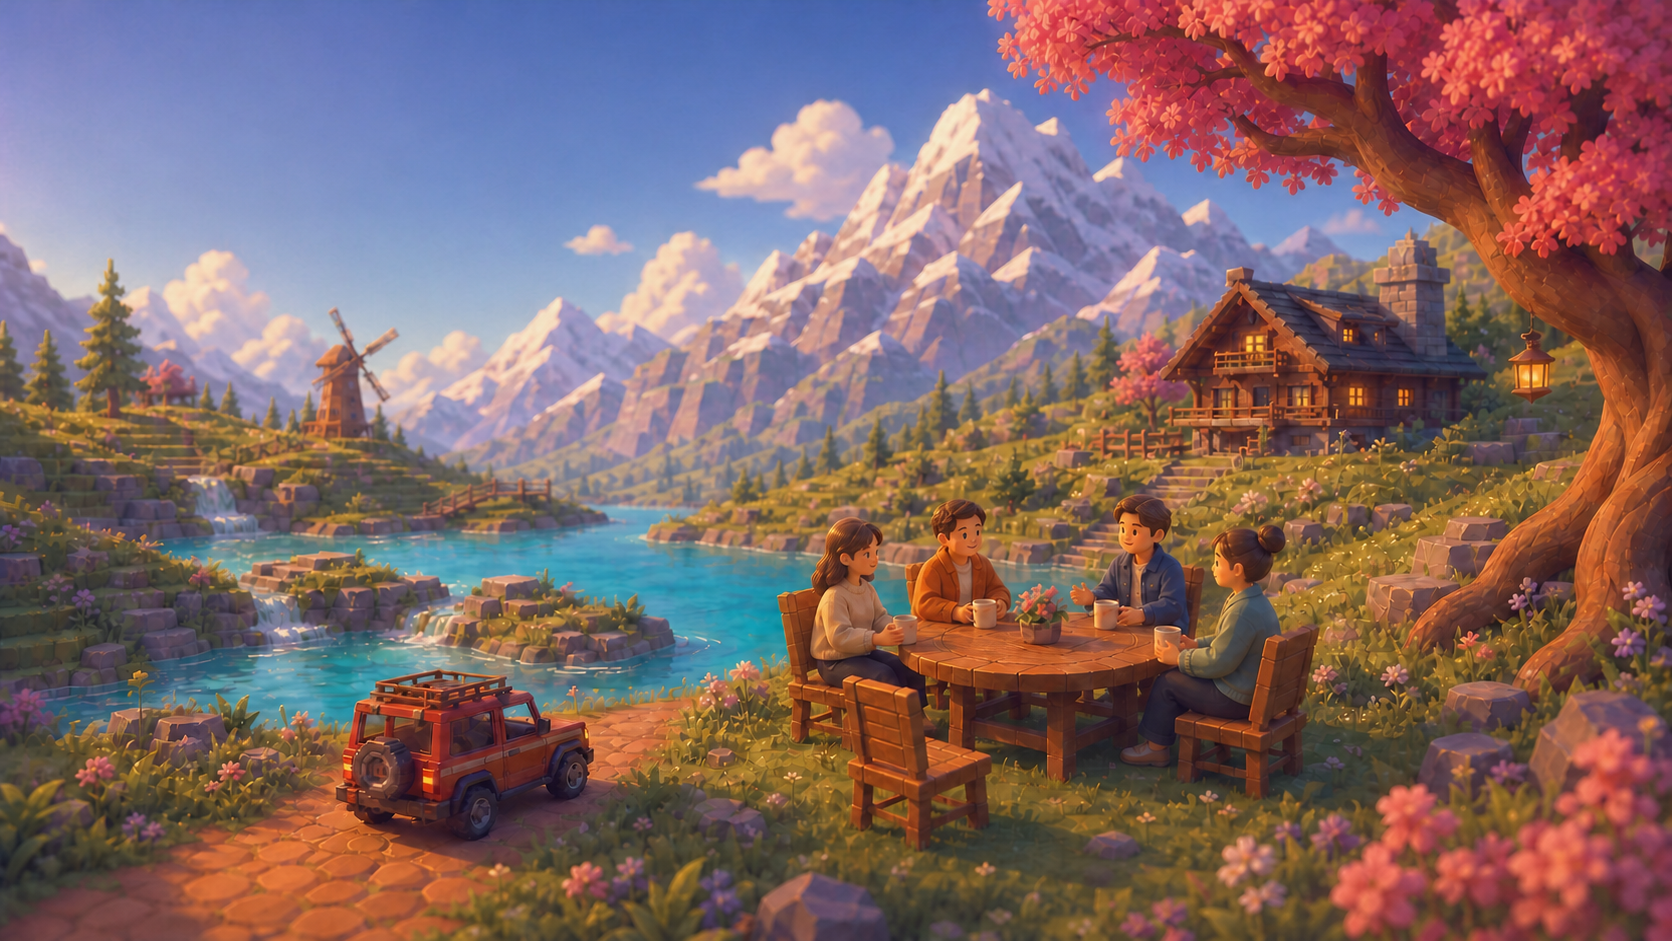
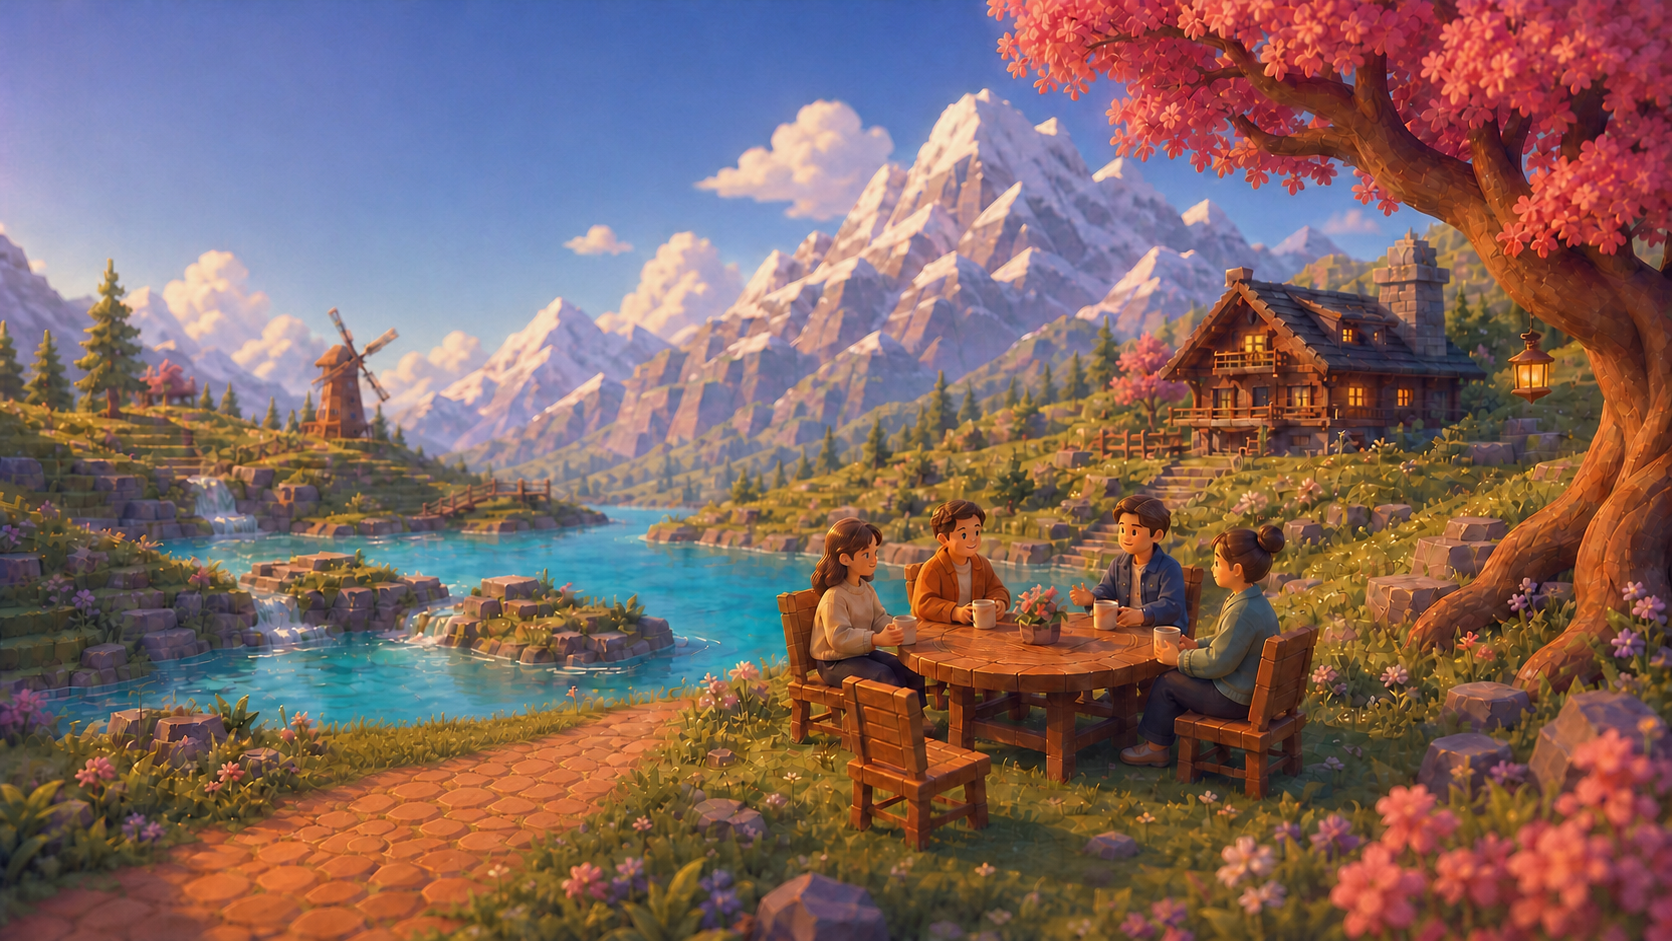
fix: restore valley scene as table world visual

diff --git a/src/ValleyScene.tsx b/src/ValleyScene.tsx
@@ -1,6 +1,6 @@
 import { Sparkles } from '@react-three/drei'
 import { Canvas, useFrame, useThree } from '@react-three/fiber'
-import { Suspense, useMemo, useRef } from 'react'
+import { Suspense, useEffect, useMemo, useRef } from 'react'
 import * as THREE from 'three'
 import DioramaScene, { type DioramaProps } from './Diorama'
 
@@ -14,23 +14,73 @@ const CAMERA_TARGETS: Record<ExperiencePhase, { pos: [number, number, number]; l
 }
 
 function CameraRig({ phase, reducedMotion }: Pick<ValleySceneProps, 'phase' | 'reducedMotion'>) {
-  const { camera } = useThree()
+  const { camera, gl } = useThree()
   const lookAt = useRef(new THREE.Vector3())
   const target = useMemo(() => new THREE.Vector3(), [])
+  const basePosition = useMemo(() => new THREE.Vector3(), [])
+  const offset = useMemo(() => new THREE.Vector3(), [])
   const position = useMemo(() => new THREE.Vector3(), [])
+  const orbit = useRef({ active: false, pointerId: -1, lastX: 0, lastY: 0, yaw: 0, pitch: 0, root: null as HTMLElement | null })
+
+  useEffect(() => {
+    const state = orbit.current
+    const onPointerDown = (event: PointerEvent) => {
+      if (event.button !== 0 || !(event.target instanceof Element)) return
+      const root = event.target.closest<HTMLElement>('.valley-experience')
+      if (!root || root.getAttribute('aria-hidden') === 'true' || event.target.closest('button,a,input,textarea,select')) return
+      state.active = true
+      state.pointerId = event.pointerId
+      state.lastX = event.clientX
+      state.lastY = event.clientY
+      state.root = root
+      root.classList.add('is-camera-dragging')
+    }
+    const onPointerMove = (event: PointerEvent) => {
+      if (!state.active || event.pointerId !== state.pointerId) return
+      state.yaw -= (event.clientX - state.lastX) * 0.006
+      state.pitch = THREE.MathUtils.clamp(state.pitch + (event.clientY - state.lastY) * 0.004, -0.55, 0.55)
+      state.lastX = event.clientX
+      state.lastY = event.clientY
+      event.preventDefault()
+    }
+    const endDrag = (event: PointerEvent) => {
+      if (!state.active || (event.pointerId !== undefined && event.pointerId !== state.pointerId)) return
+      state.active = false
+      state.pointerId = -1
+      state.root?.classList.remove('is-camera-dragging')
+      state.root = null
+    }
+
+    window.addEventListener('pointerdown', onPointerDown)
+    window.addEventListener('pointermove', onPointerMove, { passive: false })
+    window.addEventListener('pointerup', endDrag)
+    window.addEventListener('pointercancel', endDrag)
+    return () => {
+      window.removeEventListener('pointerdown', onPointerDown)
+      window.removeEventListener('pointermove', onPointerMove)
+      window.removeEventListener('pointerup', endDrag)
+      window.removeEventListener('pointercancel', endDrag)
+      state.root?.classList.remove('is-camera-dragging')
+    }
+  }, [gl])
 
   useFrame(({ clock, pointer }, delta) => {
     const stage = CAMERA_TARGETS[phase]
     const drift = reducedMotion ? 0 : Math.sin(clock.elapsedTime * 0.18) * 0.05
-    position.set(...stage.pos)
+    basePosition.set(...stage.pos)
     target.set(...stage.look)
     if (!reducedMotion) {
       const parallax = phase === 'discovering' ? 1 : 0.55
-      position.x += pointer.x * 0.4 * parallax + drift
-      position.y += pointer.y * 0.2 * parallax
+      basePosition.x += pointer.x * 0.4 * parallax + drift
+      basePosition.y += pointer.y * 0.2 * parallax
       target.x += pointer.x * 0.16 * parallax
       target.y += pointer.y * 0.1 * parallax
     }
+    offset.copy(basePosition).sub(target)
+    const spherical = new THREE.Spherical().setFromVector3(offset)
+    spherical.theta += orbit.current.yaw
+    spherical.phi = THREE.MathUtils.clamp(spherical.phi + orbit.current.pitch, 0.45, 1.52)
+    position.setFromSpherical(spherical).add(target)
     const speed = reducedMotion ? 18 : phase === 'approaching' ? 1.15 : phase === 'seated' ? 2.6 : 3.1
     camera.position.x = THREE.MathUtils.damp(camera.position.x, position.x, speed, delta)
     camera.position.y = THREE.MathUtils.damp(camera.position.y, position.y, speed, delta)

diff --git a/src/App.tsx b/src/App.tsx
@@ -1,6 +1,6 @@
 import { GlobalCanvas } from '@14islands/r3f-scroll-rig'
 import { useEffect, useRef, useState, type CSSProperties } from 'react'
-import type { ExperiencePhase } from './ValleyScene'
+import ValleyScene, { type ExperiencePhase, type ValleySceneProps } from './ValleyScene'
 import { humanActors, tableHost, type ActorId } from './actors'
 import TableSea, { type GalleryMediaRect } from './TableSea'
 import Lobby from './Lobby'
@@ -14,7 +14,6 @@ import { loadLobby, loadLobbyFit, ensureTable, viewerSeed } from './live/backend
 import { fetchDiscovery } from './live/api'
 import { setAmbient, stopAmbient } from './audio/ambient'
 import { actorAnchors } from './Diorama'
-import TableWorld from './TableWorld'
 
 const turns = [...humanActors, tableHost]
 
@@ -62,7 +61,7 @@ function SoundIcon({ muted }: { muted: boolean }) {
   return <svg viewBox="0 0 24 24" aria-hidden="true"><path d="M5 9v6h4l5 4V5L9 9H5Zm12 1c1 1.2 1 2.8 0 4m2-7c2.8 2.8 2.8 7.2 0 10" className={muted ? 'muted-wave' : ''} />{muted && <path d="m17 10 4 4m0-4-4 4" />}</svg>
 }
 
-function ValleyExperience({ onExit, appPhase, entryIntent, table }: { onExit(): void; appPhase: AppPhase; entryIntent: 'listen' | 'join' | null; table: TableSummary }) {
+function ValleyExperience({ onExit, appPhase, entryIntent, table, enhanced }: { onExit(): void; appPhase: AppPhase; entryIntent: 'listen' | 'join' | null; table: TableSummary; enhanced: boolean }) {
   const reducedMotion = useReducedMotion()
   const [phase, setPhase] = useState<ExperiencePhase>('discovering')
   const [activeSpeaker, setActiveSpeaker] = useState(0)
@@ -238,9 +237,12 @@ function ValleyExperience({ onExit, appPhase, entryIntent, table }: { onExit(): 
   const speakingTurn = liveActive && liveSpeaking ? turns.find((turn) => turn.id === liveSpeaking) ?? null : null
   const currentTurn = speakingTurn ?? turns[activeSpeaker]
   const lastLive = liveActive ? liveMessages[liveMessages.length - 1] ?? null : null
+  const sceneProps: ValleySceneProps = { phase, activeActorId: currentTurn.id, hoveredActorId, reducedMotion }
   return (
     <main ref={experienceRef} tabIndex={-1} inert={appPhase !== 'world'} aria-hidden={appPhase !== 'world'} className={`valley-experience app-${appPhase} phase-${phase} ${joinOpen ? 'has-join-open' : ''} ${listening ? 'is-listening' : ''}`}>
-      <TableWorld active={appPhase === 'world'} />
+      <div className="art-fallback" aria-hidden="true" style={enhanced ? { display: 'none' } : undefined} />
+      {enhanced && <ValleyScene {...sceneProps} />}
+      {!enhanced && seated && <img className="dom-host-fallback" src="/assets/actors/table-host-silence.png" alt="" aria-hidden="true" />}
       <div className="world-grade" aria-hidden="true" />
 
       <header className="site-header">
@@ -461,9 +463,9 @@ export default function App() {
   const showWorld = appPhase === 'expanding' || appPhase === 'world' || appPhase === 'collapsing'
   return (
     <>
-      {enhanced && <GlobalCanvas dpr={[1, 1.5]} gl={{ alpha: false, antialias: true }} shadows onError={() => setEnhanced(false)} />}
+      {enhanced && showGallery && !showWorld && <GlobalCanvas dpr={[1, 1.5]} gl={{ alpha: false, antialias: true }} shadows onError={() => setEnhanced(false)} />}
       {showGallery && <TableSea phase={appPhase} returnFocusId={transition?.table.id ?? null} onEnter={openLobby} enhanced={enhanced} discovery={discovery} />}
-      {showWorld && lobbyTable && <ValleyExperience table={lobbyTable} appPhase={appPhase} entryIntent={entryIntent} onExit={exitTable} />}
+      {showWorld && lobbyTable && <ValleyExperience table={lobbyTable} appPhase={appPhase} entryIntent={entryIntent} enhanced={enhanced} onExit={exitTable} />}
       {appPhase === 'lobby' && lobbyTable && <Lobby table={lobbyTable} lobby={lobbyData} fit={lobbyFit} loading={lobbyLoading} onClose={closeLobby} onListen={() => startWorld('listen')} onJoin={() => startWorld('join')} />}
       {appPhase === 'expanding' && transition && <><div className="transition-backdrop" aria-hidden="true" /><TransitionCover snapshot={transition} /></>}
     </>

diff --git a/src/styles.css b/src/styles.css
@@ -8,6 +8,8 @@ button,textarea { color: inherit; font: inherit; }
 button:focus-visible,textarea:focus-visible { outline: 1px solid #ffe19b; outline-offset: 5px; }
 
 .valley-experience { --paper:#fff9e9; --gold:#ffd180; position:relative; width:100%; height:100svh; overflow:hidden; isolation:isolate; background:#789caf; }
+.valley-experience.app-expanding,.valley-experience.app-world { cursor:grab; touch-action:none; }
+.valley-experience.is-camera-dragging { cursor:grabbing; }
 .art-fallback,.valley-canvas,.world-grade { position:absolute!important; inset:0; width:100%!important; height:100%!important; }
 .art-fallback { z-index:0; pointer-events:none; background:url('/assets/valley-world-clean.png') center/cover no-repeat; }
 .valley-canvas { z-index:1; pointer-events:none; }
@@ -58,7 +60,7 @@ button:focus-visible,textarea:focus-visible { outline: 1px solid #ffe19b; outlin
 .phase-approaching .approach-cue { opacity:1; transform:translate(-50%,0); }
 
 .seated-hud { position:absolute; z-index:12; inset:0; opacity:0; transition:opacity .8s ease .12s; pointer-events:none; }
-.phase-seated .seated-hud { opacity:1; }
+.phase-seated .seated-hud { opacity:1; pointer-events:auto; }
 .seated-hud[aria-hidden='true'],.seated-hud[aria-hidden='true'] * { pointer-events:none!important; }
 .back-to-discovery,.conversation-dock,.join-table-button,.seat-marker,.close-table-button { pointer-events:auto; }
 .back-to-discovery { position:absolute; top:clamp(92px,12.5vh,130px); left:clamp(24px,4vw,68px); padding:9px 0; border:0; background:none; color:rgba(255,250,236,.72); font-size:10px; letter-spacing:.16em; cursor:pointer; }
